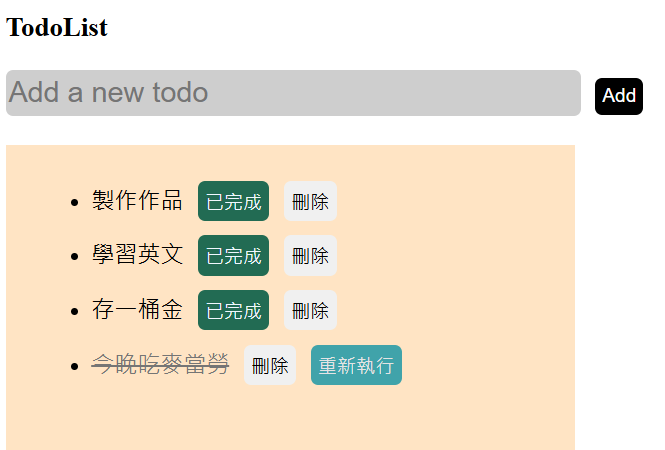
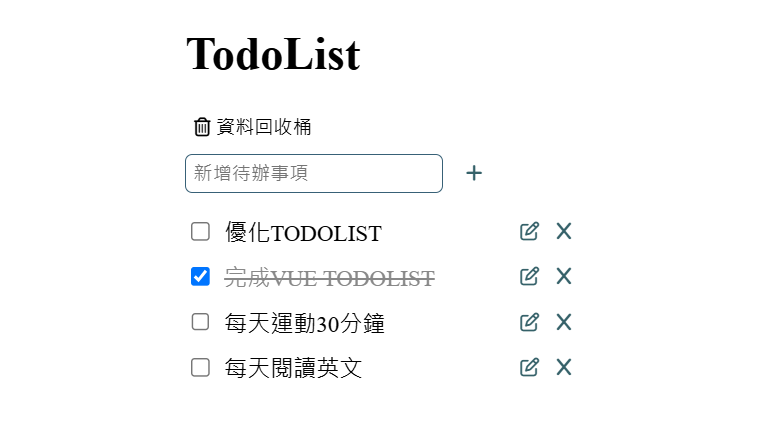
更新todoList專案

diff --git a/components/projects.vue b/components/projects.vue
@@ -7,82 +7,42 @@
 <script setup>
 
 const cards = ref([
-  // {
-  //   id: 1,
-  //   imgSrc: "/images/todolist.png",
-  //   title: "Angular練習TodoList",
-  //   text: "可以新增項目，刪除，已完成，重新執行",
-  //   link1: "https://todo-list-jade-eta.vercel.app/",
-  //   link2: "https://github.com/LEEWT129/todoList",
-  // },
   {
-    id: 2,
+    id:'resume',
     imgSrc: "/images/resume.png",
-    title: "NUXT3履歷",
+    title: "履歷",
     text: "NUXT3製作履歷介面，RWD",
     link1: "https://resume-nine-phi.vercel.app/",
     link2: "https://github.com/LEEWT129/resume",
   },
-  // {
-  //   id: 3,
-  //   imgSrc: "/images/chandelier.png",
-  //   title: "HTML、CSS吊燈動畫",
-  //   text: "運用CSS簡易撰寫吊燈移動軌跡",
-  //   link1: "https://leewt129.github.io/chandelier/",
-  //   link2: "https://github.com/LEEWT129/chandelier",
-  // },
   {
-    id: 4,
+    id: 'todoList',
+    imgSrc: "/images/todoList.png",
+    title: "TodoList",
+    text: "運用Vue撰寫，將資料存在localStorage",
+    link1: "https://vue-todo-list-sigma.vercel.app/",
+    link2: "https://github.com/LEEWT129/VueTodoList",
+  },
+  {
+    id: 'Beauty',
     imgSrc: "/images/Beauty_Studio.png",
-    title: "Bootstrap美容工作室",
+    title: "美容工作室",
     text: "Bootstrap製作切版(前端課程第三週的作品)",
     link1: "https://leewt129.github.io/Beauty_Studio/index.html",
     link2: "https://github.com/LEEWT129/Beauty_Studio",
   },
-  // {
-  //   id: 5,
-  //   imgSrc: "/images/ball-games.png",
-  //   title: "Vue.js單頁式球類介紹",
-  //   text: "運用的Vue.js製作單頁簡單的球類介紹，加上一些動畫效果",
-  //   link1: "https://ball-games.vercel.app/",
-  //   link2: "https://github.com/LEEWT129/ball-games",
-  // },
-  // {
-  //   id: 6,
-  //   imgSrc: "/images/card.png",
-  //   title: "個人簡介卡片",
-  //   text: "運用的HTML、CSS、JS製作簡介卡片",
-  //   link1: "https://leewt129.github.io/card/",
-  //   link2: "https://github.com/LEEWT129/card",
-  // },
   {
-    id: 7,
+    id: 'comesee',
     imgSrc: "/images/comesee.png",
-    title: "React.js電影線上購票平台",
+    title: "電影線上購票",
     text: "React.js製作電影線上購票平台(前端課程結業專題)",
     link1: "https://github.com/LEEWT129/comesee",
     link2: "https://github.com/LEEWT129/comesee",
   },
-  // {
-  //   id: 8,
-  //   imgSrc: "/images/book.png",
-  //   title: "書城首頁純切版",
-  //   text: "運用的HTML、CSS、JS製作書城首頁(未完成)",
-  //   link1: "https://leewt129.github.io/bookstore/",
-  //   link2: "https://github.com/LEEWT129/bookstore",
-  // },
-  // {
-  //   id: 9,
-  //   imgSrc: "/images/ParallaxScrolling.png",
-  //   title: "ParallaxScrolling練習",
-  //   text: "運用的HTML、CSS、JS製作ParallaxScrolling效果",
-  //   link1: "https://leewt129.github.io/ParallaxScrolling/",
-  //   link2: "https://github.com/LEEWT129/ParallaxScrolling",
-  // },
   {
-    id: 10,
+    id: 'mingtie',
     imgSrc: "/images/mingtie.png",
-    title: "公司專案-NUXT3名帖",
+    title: "公司專案-名帖(電子名片)",
     text: "前端獨立開發，使用者前後台，RWD (3個月開發)",
     link1: "https://mingtie.lale.im/_mingtie/",
   },
